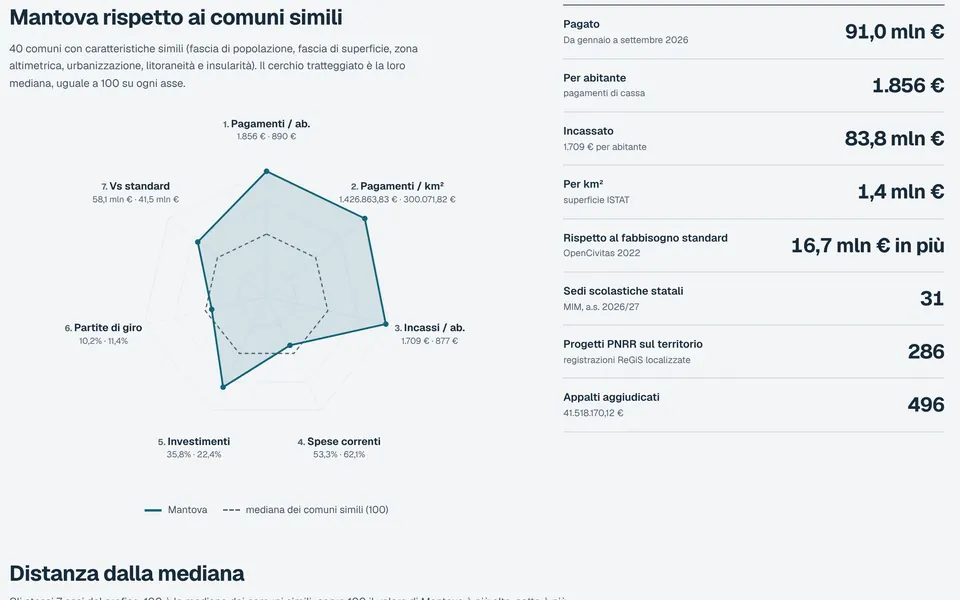
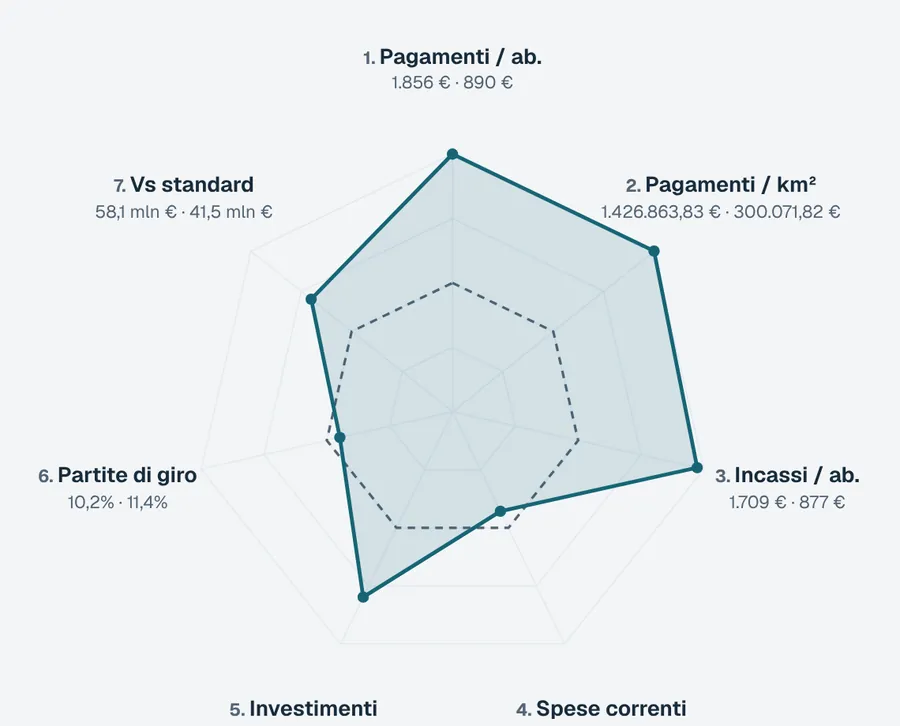
style(home): barra Chiedi ai dati nell'intestazione e mappe a mosaico
Claude-Session: https://claude.ai/code/session_015sWbUFcTmyCiVn2frrgw3i

diff --git a/src/app/home.module.css b/src/app/home.module.css
@@ -34,32 +34,54 @@
   .anomalyValue { font-size: 24px; text-align: left; }
 }
 
-/* Assistant entry: a plain GET form to /assistente. The chat, its consent and quota load only there. */
-.assistantEntry { display: grid; grid-template-columns: minmax(0, 1fr) minmax(0, 1.25fr); gap: 14px 32px; align-items: center; padding: 24px; margin-bottom: 8px; border: 1px solid var(--color-neutral-300); background: var(--color-raised); }
-.assistantCopy h2 { margin: 0 0 6px; font-size: clamp(20px, 2.2vw, 24px); font-weight: 500; letter-spacing: -.02em; }
-.assistantCopy p { margin: 0; color: var(--color-neutral-700); font-size: 15px; line-height: 1.55; }
-.assistantForm { display: flex; gap: 8px; min-width: 0; }
-.assistantForm input { flex: 1 1 auto; min-width: 0; min-height: 48px; padding: 0 14px; font: inherit; font-size: 16px; color: var(--color-text); background: var(--color-surface); border: 1px solid var(--color-neutral-400); }
-.assistantForm input:focus-visible { outline: 2px solid var(--color-accent); outline-offset: 1px; }
-.assistantForm button { flex: none; display: inline-flex; align-items: center; gap: 6px; min-height: 48px; padding: 0 18px; font: inherit; font-weight: 600; color: #fff; background: var(--color-accent); border: 0; cursor: pointer; }
-.assistantForm button:focus-visible { outline: 2px solid var(--color-text); outline-offset: 2px; }
-.assistantExamples { grid-column: 1 / -1; display: flex; flex-wrap: wrap; gap: 8px; margin: 0; padding: 0; list-style: none; }
-.assistantExamples a { display: inline-flex; align-items: center; min-height: 36px; padding: 4px 12px; color: var(--color-text); font-size: 14px; text-decoration: none; border: 1px solid var(--color-neutral-300); background: var(--color-surface); }
-.assistantExamples a:hover { border-color: var(--color-neutral-500); }
-.mapsSection { display: grid; gap: 20px; padding-block: 40px 8px; border-top: 1px solid var(--color-neutral-300); }
-.mapCards { display: grid; grid-template-columns: repeat(3, minmax(0, 1fr)); gap: 16px; margin: 0; padding: 0; list-style: none; }
-.mapCard { display: grid; height: 100%; color: var(--color-text); text-decoration: none; border: 1px solid var(--color-neutral-300); background: var(--color-raised); }
-.mapCard img { display: block; width: 100%; height: auto; aspect-ratio: 16 / 10; object-fit: cover; border-bottom: 1px solid var(--color-neutral-300); }
-.mapCardBody { display: grid; gap: 6px; padding: 16px; }
-.mapCardBody strong { display: inline-flex; align-items: center; gap: 6px; font-size: 17px; font-weight: 600; }
-.mapCardBody span { color: var(--color-neutral-700); font-size: 14px; line-height: 1.5; }
-.mapCard:hover strong, .mapCard:focus-visible strong { text-decoration: underline; text-underline-offset: 3px; }
-.mapCard:focus-visible { outline: 2px solid var(--color-accent); outline-offset: 2px; }
+
+/* Ask bar in the hero: a plain GET form to /assistente. Chat code, consent and quota load only there. */
+.ask { display: grid; gap: 12px; margin-top: 8px; }
+.askBar { display: grid; grid-template-columns: auto minmax(0, 1fr) auto; align-items: stretch; min-height: 60px; border: 1px solid var(--color-neutral-400); background: var(--color-raised); box-shadow: 0 1px 2px rgb(16 24 40 / 6%); }
+.askBar:focus-within { border-color: var(--color-text); box-shadow: 0 0 0 3px color-mix(in srgb, var(--color-accent) 18%, transparent); }
+.askLabel { display: inline-flex; align-items: center; gap: 8px; padding: 0 16px 0 18px; color: var(--color-accent); font-size: 14px; font-weight: 600; white-space: nowrap; border-right: 1px solid var(--color-neutral-300); }
+.askBar input { min-width: 0; padding: 0 16px; font: inherit; font-size: 17px; color: var(--color-text); background: transparent; border: 0; }
+.askBar input::placeholder { color: var(--color-neutral-500); }
+.askBar input:focus { outline: none; }
+.askBar button { display: inline-flex; align-items: center; justify-content: center; width: 60px; color: var(--color-on-strong); background: var(--color-accent); border: 0; cursor: pointer; }
+.askBar button:hover { background: var(--color-accent-800); }
+.askBar button:focus-visible { outline: 2px solid var(--color-text); outline-offset: -4px; }
+.askMeta { display: flex; flex-wrap: wrap; justify-content: space-between; align-items: center; gap: 8px 24px; }
+.askMeta p { margin: 0; color: var(--color-neutral-600); font-size: 13px; }
+.askExamples { display: flex; flex-wrap: wrap; gap: 4px 18px; margin: 0; padding: 0; list-style: none; }
+.askExamples a { display: inline-flex; align-items: center; min-height: 32px; color: var(--color-neutral-700); font-size: 14px; text-decoration: underline; text-decoration-color: var(--color-neutral-400); text-underline-offset: 4px; }
+.askExamples a:hover { color: var(--color-accent); text-decoration-color: currentColor; }
+
+/* Maps: same rhythm as the home pathways, copy on the left and a mosaic of static previews on the right. */
+.mapsFeature { display: grid; grid-template-columns: minmax(0, .85fr) minmax(0, 1.15fr); align-items: center; gap: clamp(28px, 4vw, 64px); padding-block: 48px; border-bottom: 1px solid var(--color-neutral-300); }
+.mapsCopy { display: grid; gap: 18px; min-width: 0; }
+.mapsCopy h2 { margin: 0; font-size: clamp(28px, 3vw, 38px); line-height: 1.15; font-weight: 500; letter-spacing: -.025em; }
+.mapsCopy > p { margin: 0; max-width: 46ch; font-size: 16px; line-height: 1.65; color: var(--color-neutral-700); }
+.mapsList { display: grid; margin: 0; padding: 0; list-style: none; border-top: 1px solid var(--color-neutral-300); }
+.mapsList a { display: grid; grid-template-columns: minmax(0, 1fr) auto; align-items: center; gap: 12px; min-height: 64px; padding-block: 12px; color: var(--color-text); text-decoration: none; border-bottom: 1px solid var(--color-neutral-300); }
+.mapsList a > span { display: grid; gap: 2px; color: var(--color-neutral-600); font-size: 13px; line-height: 1.5; }
+.mapsList strong { color: var(--color-text); font-size: 16px; font-weight: 600; }
+.mapsList a:hover strong { color: var(--color-accent); text-decoration: underline; text-underline-offset: 3px; }
+.mapsList a:focus-visible { outline: 2px solid var(--color-accent); outline-offset: 2px; }
+.mapsMosaic { display: grid; grid-template-columns: 1fr 1fr; grid-template-rows: 260px 180px; gap: 12px; margin: 0; padding: 0; list-style: none; }
+.mapsMosaic li { min-width: 0; }
+.mapsMosaic li[data-tile="large"] { grid-column: 1 / -1; }
+.mapsMosaic a { position: relative; display: block; height: 100%; overflow: hidden; border: 1px solid var(--color-neutral-300); background: var(--color-raised); }
+.mapsMosaic img { display: block; width: 100%; height: 100%; object-fit: cover; transition: transform .4s ease; }
+.mapsMosaic a:hover img { transform: scale(1.03); }
+.mapsTag { position: absolute; left: 12px; bottom: 12px; padding: 5px 10px; color: var(--color-text); font-size: 13px; font-weight: 600; background: var(--color-raised); border: 1px solid var(--color-neutral-300); }
+@media (prefers-reduced-motion: reduce) { .mapsMosaic img { transition: none; } .mapsMosaic a:hover img { transform: none; } }
 @media (max-width: 900px) {
-  .assistantEntry { grid-template-columns: 1fr; padding: 20px; }
-  .mapCards { grid-template-columns: 1fr; }
+  .mapsFeature { grid-template-columns: 1fr; gap: 24px; padding-block: 36px; }
+  .mapsMosaic { grid-template-rows: 200px 140px; }
 }
-@media (max-width: 480px) {
-  .assistantForm { flex-direction: column; }
-  .assistantForm button { justify-content: center; }
+@media (max-width: 620px) {
+  .askBar { grid-template-columns: minmax(0, 1fr) auto; }
+  .askLabel { grid-column: 1 / -1; min-height: 40px; border-right: 0; border-bottom: 1px solid var(--color-neutral-300); padding: 0 14px; }
+  .askBar input { min-height: 54px; padding: 0 14px; font-size: 16px; }
+  .askBar button { width: 54px; }
+  .mapsCopy h2 { font-size: 30px; }
+  .mapsCopy > p { font-size: 15px; }
+  .mapsMosaic { grid-template-rows: 170px 120px; gap: 8px; }
+  .mapsTag { left: 8px; bottom: 8px; padding: 3px 8px; font-size: 12px; }
 }

diff --git a/src/app/page.tsx b/src/app/page.tsx
@@ -1,6 +1,7 @@
 import type { Metadata } from "next";
 import Link from "next/link";
 import {
+  AiChat02Icon,
   ArrowRight01Icon,
 } from "@hugeicons/core-free-icons";
 import { HugeiconsIcon } from "@hugeicons/react";
@@ -33,22 +34,31 @@ export const metadata: Metadata = {
 /** Static previews captured from the live maps: no map code or data is loaded on the home page. */
 const HOME_MAPS = [
   {
-    href: "/comuni",
-    title: "Mappa dei Comuni",
-    text: "Cerca il tuo Comune e confrontalo con quelli simili: pagamenti, incassi, IRPEF, appalti, scuole e PNRR.",
-    image: "/home/mappa-comuni.webp",
+    href: MOBILITA_MAP_PATH,
+    title: "Mappa della mobilità",
+    text: "Dove tram, metro e bus rallentano, dagli orari ufficiali.",
+    image: "/home/mappa-mobilita.webp",
+    width: 1200,
+    height: 652,
+    tile: "large",
   },
   {
     href: "/politici",
     title: "Mappa della politica",
-    text: "Camera, Senato e Governo seggio per seggio: gruppi, incarichi, presenze e voti.",
+    text: "Camera, Senato e Governo: gruppi, incarichi, presenze e voti.",
     image: "/home/mappa-politica.webp",
+    width: 900,
+    height: 528,
+    tile: "small",
   },
   {
-    href: MOBILITA_MAP_PATH,
-    title: "Mappa della mobilità",
-    text: "Dove tram, metro e bus rallentano, tratta per tratta, dagli orari ufficiali.",
-    image: "/home/mappa-mobilita.webp",
+    href: "/comuni",
+    title: "Mappa dei Comuni",
+    text: "Il tuo Comune confrontato con quelli simili.",
+    image: "/home/mappa-comuni.webp",
+    width: 900,
+    height: 726,
+    tile: "small",
   },
 ] as const;
 
@@ -122,24 +132,27 @@ export default async function HomePage({
           <p className={styles.lead}>Spesa pubblica, territori e istituzioni. Esplora i dati italiani, con fonti e periodi di riferimento.</p>
           <a href="#esplora" className={styles.exploreJump}><span>Esplora i dati ↓</span></a>
         </div>
-      </header>
-      <section className={styles.assistantEntry} aria-labelledby="assistant-entry-title">
-        <div className={styles.assistantCopy}>
-          <h2 id="assistant-entry-title">Chiedi ai dati</h2>
-          <p>Fai una domanda in italiano: l&apos;assistente risponde con i dati del sito e cita le fonti. 10 domande gratuite al giorno.</p>
+        <div className={styles.ask}>
+          <form className={styles.askBar} action="/assistente" method="get" role="search" aria-label="Chiedi ai dati con l'assistente">
+            <label htmlFor="home-assistant-question" className={styles.askLabel}>
+              <HugeiconsIcon icon={AiChat02Icon} size={18} aria-hidden="true" />Chiedi ai dati
+            </label>
+            <input id="home-assistant-question" name="q" type="text" required maxLength={HOME_QUESTION_MAX} autoComplete="off"
+              placeholder="Quanto spende il mio Comune?" />
+            <button type="submit" aria-label="Invia la domanda all'assistente">
+              <HugeiconsIcon icon={ArrowRight01Icon} size={20} aria-hidden="true" />
+            </button>
+          </form>
+          <div className={styles.askMeta}>
+            <ul className={styles.askExamples} aria-label="Domande di esempio">
+              {HOME_ASSISTANT_EXAMPLES.map((example) => (
+                <li key={example}><Link prefetch={false} href={assistantHref(example)}>{example}</Link></li>
+              ))}
+            </ul>
+            <p>Assistente AI · risposte con le fonti del sito · 10 domande gratuite al giorno</p>
+          </div>
         </div>
-        <form className={styles.assistantForm} action="/assistente" method="get" role="search" aria-label="Fai una domanda all'assistente">
-          <label htmlFor="home-assistant-question" className="sr-only">La tua domanda</label>
-          <input id="home-assistant-question" name="q" type="text" required maxLength={HOME_QUESTION_MAX} autoComplete="off"
-            placeholder="es. Quanto spende il mio Comune?" />
-          <button type="submit">Chiedi<HugeiconsIcon icon={ArrowRight01Icon} size={16} aria-hidden="true" /></button>
-        </form>
-        <ul className={styles.assistantExamples} aria-label="Domande di esempio">
-          {HOME_ASSISTANT_EXAMPLES.map((example) => (
-            <li key={example}><Link prefetch={false} href={assistantHref(example)}>{example}</Link></li>
-          ))}
-        </ul>
-      </section>
+      </header>
       <HomePathways funnel={funnel} siope={siope}>
       <section className={`panel ${styles.anomaliesPanel}`} aria-labelledby="anomalies-title">
         <div className={styles.anomaliesHeader}>
@@ -197,20 +210,27 @@ export default async function HomePage({
 
       </HomePathways>
 
-      <section className={styles.mapsSection} aria-labelledby="home-maps-title">
-        <div className={styles.explorationHeading}>
+      <section className={styles.mapsFeature} aria-labelledby="home-maps-title">
+        <div className={styles.mapsCopy}>
           <h2 id="home-maps-title">Le mappe</h2>
-          <p>Tre modi per vedere i dati sul territorio e nelle istituzioni.</p>
+          <p>I dati sul territorio e nelle istituzioni, da esplorare a colpo d&apos;occhio: il tuo Comune accanto a quelli simili, il Parlamento seggio per seggio, i mezzi pubblici tratta per tratta.</p>
+          <ul className={styles.mapsList}>
+            {HOME_MAPS.map((map) => (
+              <li key={map.href}>
+                <Link prefetch={false} href={map.href}>
+                  <span><strong>{map.title}</strong>{map.text}</span>
+                  <HugeiconsIcon icon={ArrowRight01Icon} size={18} aria-hidden="true" />
+                </Link>
+              </li>
+            ))}
+          </ul>
         </div>
-        <ul className={styles.mapCards}>
+        <ul className={styles.mapsMosaic} aria-label="Anteprime delle mappe">
           {HOME_MAPS.map((map) => (
-            <li key={map.href} data-home-map={map.href}>
-              <Link prefetch={false} href={map.href} className={styles.mapCard}>
-                <Image src={map.image} alt="" width={960} height={600} sizes="(max-width: 760px) 100vw, 420px" />
-                <span className={styles.mapCardBody}>
-                  <strong>{map.title}<HugeiconsIcon icon={ArrowRight01Icon} size={16} aria-hidden="true" /></strong>
-                  <span>{map.text}</span>
-                </span>
+            <li key={map.href} data-home-map={map.href} data-tile={map.tile}>
+              <Link prefetch={false} href={map.href} tabIndex={-1} aria-hidden="true">
+                <Image src={map.image} alt="" width={map.width} height={map.height} sizes={map.tile === "large" ? "(max-width: 900px) 100vw, 640px" : "(max-width: 900px) 50vw, 320px"} />
+                <span className={styles.mapsTag}>{map.title}</span>
               </Link>
             </li>
           ))}
